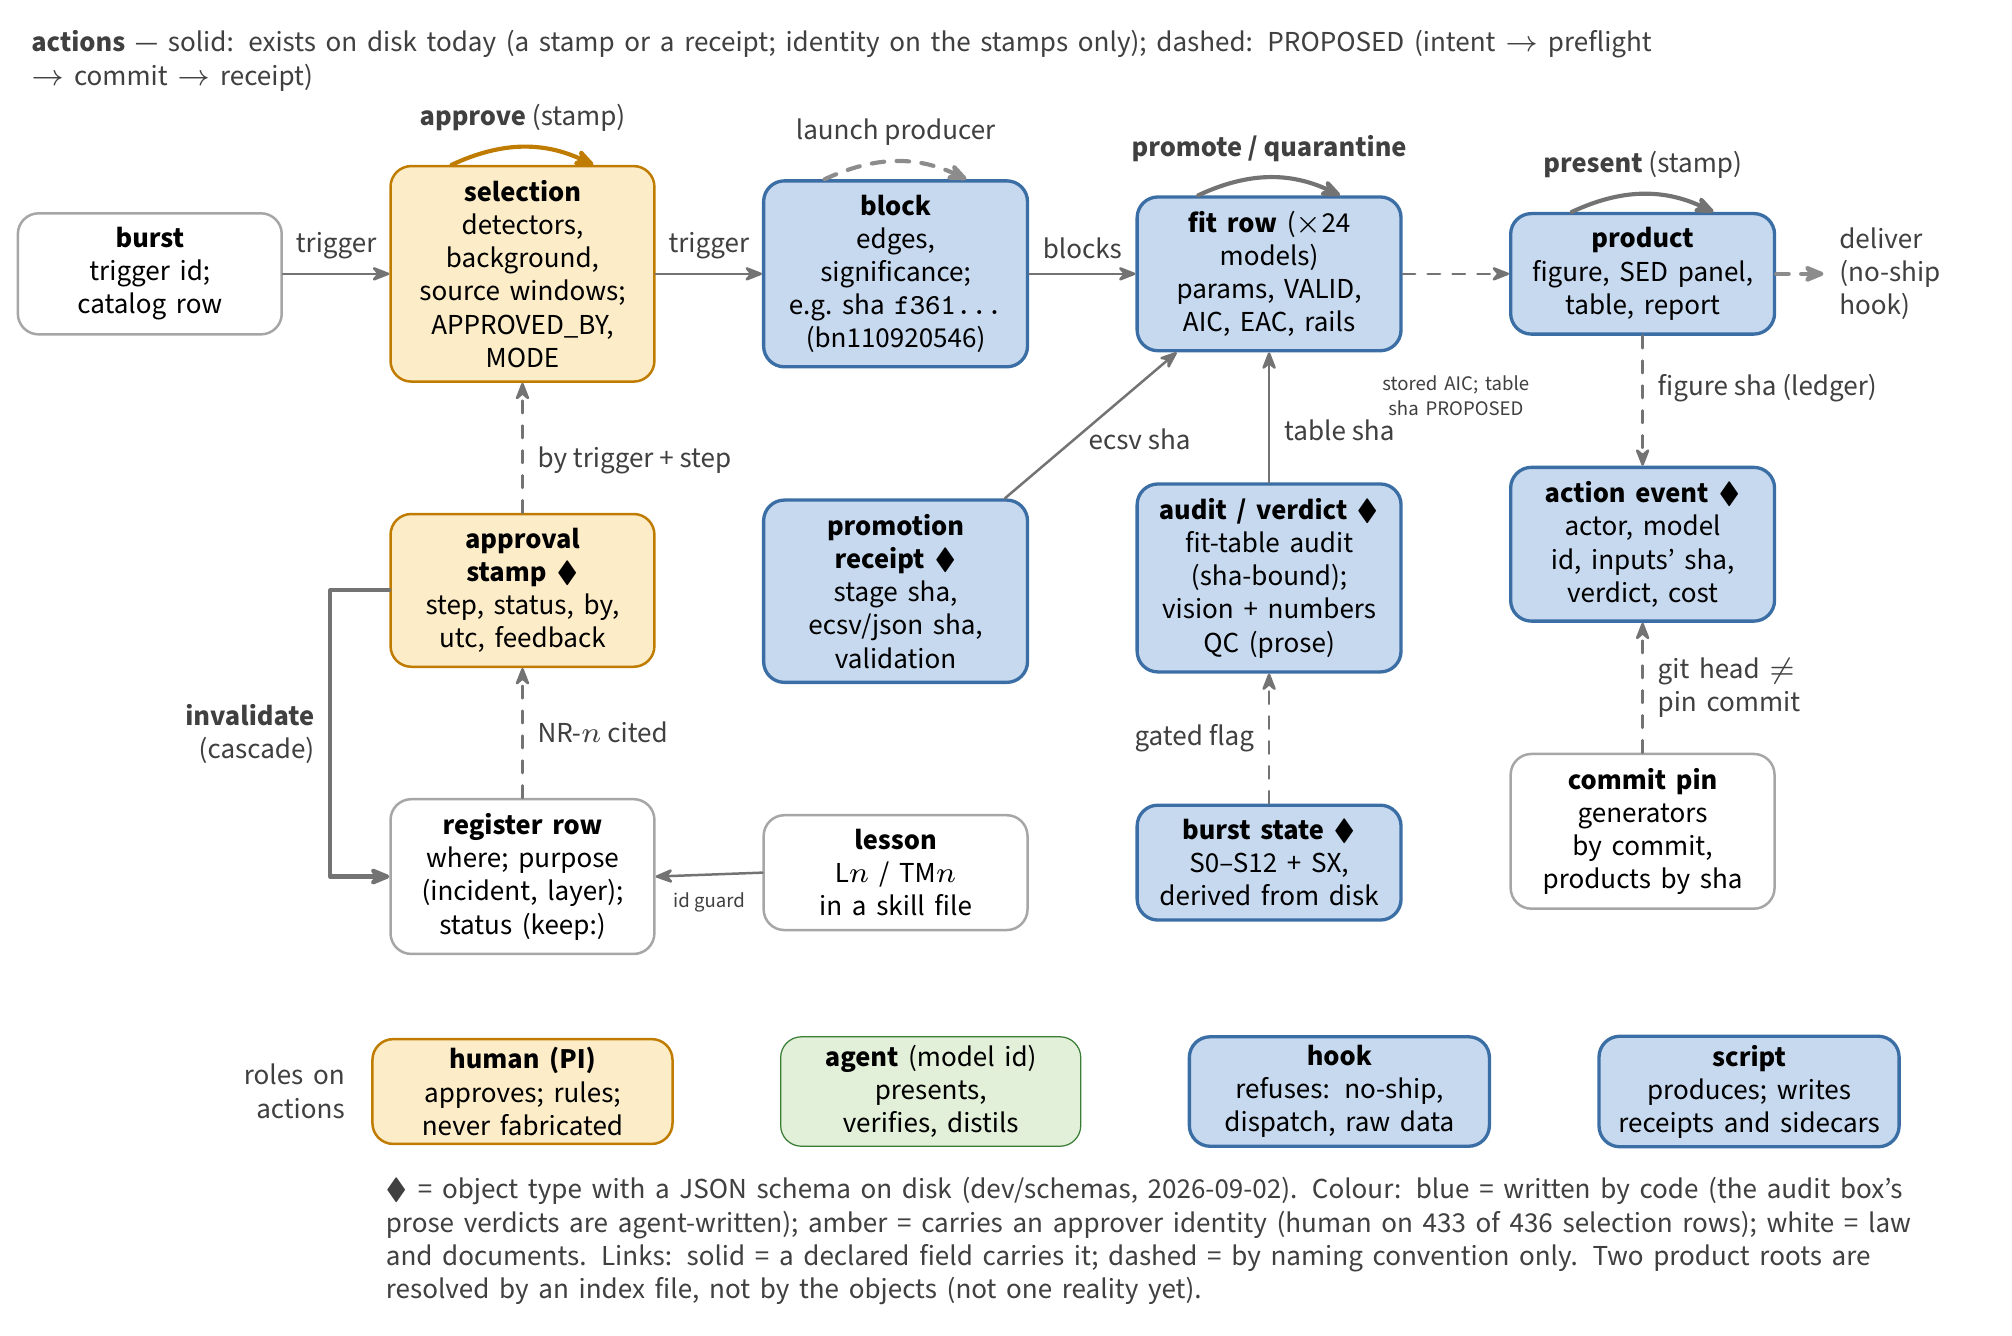
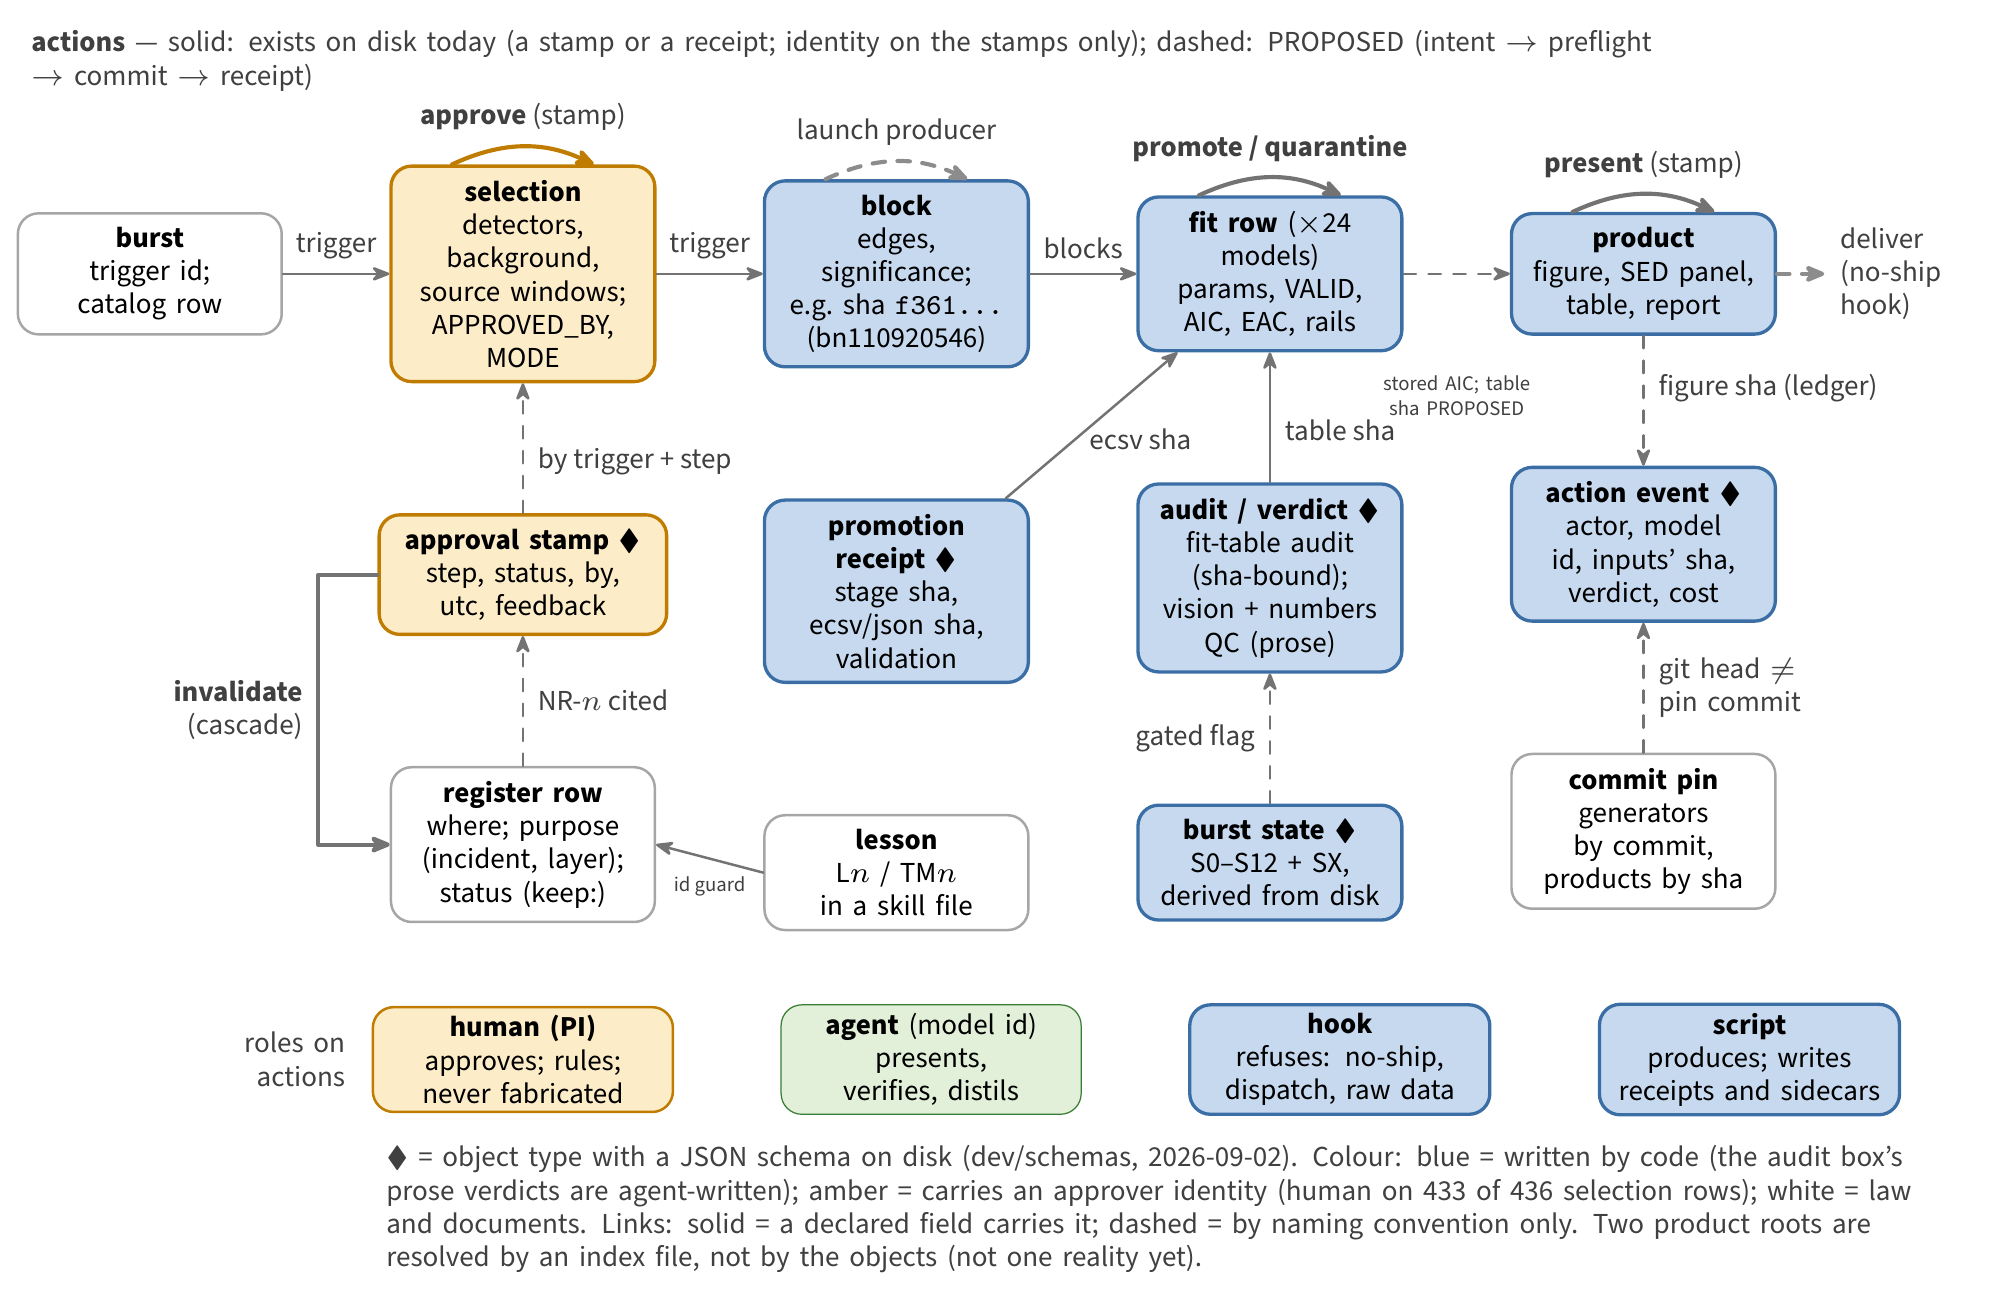
style gates: F2 style r1 PASS-WITH-NITS → CURRENT; F5 r1 nits fixed (amber 0.8 pt, stamp box 22 mm) → r2 pending
Claude-Session: https://claude.ai/code/session_014ZKU13JNR6E9CyYseiK5df

diff --git a/paper_agentic/figures/fig_F5_object_action_model.tex b/paper_agentic/figures/fig_F5_object_action_model.tex
@@ -25,7 +25,7 @@
   font=\sffamily\scriptsize, node distance=3mm and 9mm,
   obj/.style={draw=black!35, line width=0.6pt, rounded corners=5pt, fill=white, text width=20mm, align=center, minimum height=9mm, execute at begin node=\nohyph},
   objc/.style={obj, fill=codefill, draw=codeline, line width=0.8pt},
-  objh/.style={obj, fill=humanfill, draw=humanline},
+  objh/.style={obj, fill=humanfill, draw=humanline, line width=0.8pt},   % amber objects keep the 0.8 pt frame (style gate N2)
   act/.style={-{Stealth[length=2.2mm,width=1.8mm,round]}, line width=1pt, black!55, line cap=round, line join=round},
   actp/.style={act, dashed, black!45},
   acth/.style={act, humanline},
@@ -43,7 +43,7 @@
 \node[objc, right=of fit] (prod) {\textbf{product}\\figure, SED panel, table, report};
 
 % ---- row 2: the records about the products ----
-\node[objh, below=11mm of sel] (stamp) {\textbf{approval stamp} \ensuremath{\blacklozenge}\\step, status, by, utc, feedback};
+\node[objh, below=11mm of sel, text width=22mm] (stamp) {\textbf{approval stamp} \ensuremath{\blacklozenge}\\step, status, by, utc, feedback};
 \node[objc, below=11mm of blk] (receipt) {\textbf{promotion receipt} \ensuremath{\blacklozenge}\\stage sha, ecsv/json sha, validation};
 \node[objc, below=11mm of fit] (audit) {\textbf{audit / verdict} \ensuremath{\blacklozenge}\\fit-table audit (sha-bound); vision + numbers QC (prose)};
 \node[objc, below=11mm of prod] (trace) {\textbf{action event} \ensuremath{\blacklozenge}\\actor, model id, inputs' sha, verdict, cost};

diff --git a/paper_agentic/figures/GATE_LEDGER.md b/paper_agentic/figures/GATE_LEDGER.md
@@ -1,6 +1,6 @@
 # Paper v3 diagram gate ledger — TRACKED COPY
 
-Copied from `results/campaign/agentfigs/VISION_QC.md` (gitignored under results/*) at 2026-09-03T21:04:39Z, so the approval record of the manuscript's diagrams is commit-recoverable (Codex supervisor review D4, 2026-09-02). The results/ file remains the ledger the no-ship hook reads; this copy is refreshed by the building session whenever a diagram row changes.
+Copied from `results/campaign/agentfigs/VISION_QC.md` (gitignored under results/*) at 2026-09-03T21:05:14Z, so the approval record of the manuscript's diagrams is commit-recoverable (Codex supervisor review D4, 2026-09-02). The results/ file remains the ledger the no-ship hook reads; this copy is refreshed by the building session whenever a diagram row changes.
 
 ## Paper v3 diagrams — gate ledger appended 2026-09-03T03:32:12Z by the building session (verdicts by fresh-context figure-verifier agents; producer = building session)
 
@@ -69,8 +69,9 @@ Tie-break (F1 colour gate, 2026-09-03): a DOCUMENT the model reads (protocol, gu
 | fig | state | png sha256 | pdf sha256 | tex sha256 | verdict |
 |---|---|---|---|---|---|
 | F1 | style r1 | (see row above for shas) | | | FAIL — `rounded corners=5pt` on the arrow style overshot three short stubs (loop return head drawn inside the model pointing down; loop start hook inside the model; stamp arrowhead inside the records box pointing away); undisclosed cosmetic deltas: job fill black!7, hatch black!9 / agentline!20, inner frame agentline!80, label radii 3 pt |
[1 lines of base64/hex data omitted]
+| F2 | style r1 | (shas in the row above) | | | **PASS-WITH-NITS — CURRENT** (style-only diff; 379/379 words identical; all stack gaps 1.5 mm; heads round on the frames; fonts embedded; nits: math glyphs stay Computer Modern; height 9.12 in forces by-height scaling) |
 | F4 | style r1 | (shas in the row above) | | | FAIL — Source Sans wrapped the register box in 4 lines (was 5), the bottom row rose 1.5 mm and the ladder-anchored legend ended 1.10 mm above the test box (rule ≥ 2.5 mm); undisclosed deltas: event fill black!5 vs next-burst black!6, dashed legend sample frame lightened |
[1 lines of base64/hex data omitted]
+| F5 | style r1 | (shas in the row above) | | | PASS-WITH-NITS (style-only; heads on edges; arcs 1.44 mm clear; nits: 'approval stamp' title wrapped; amber frames changed by inheritance 0.8→0.6 pt objects, 0.4→0.6 pt role) → fixed in r2 |
[3 lines of base64/hex data omitted]
